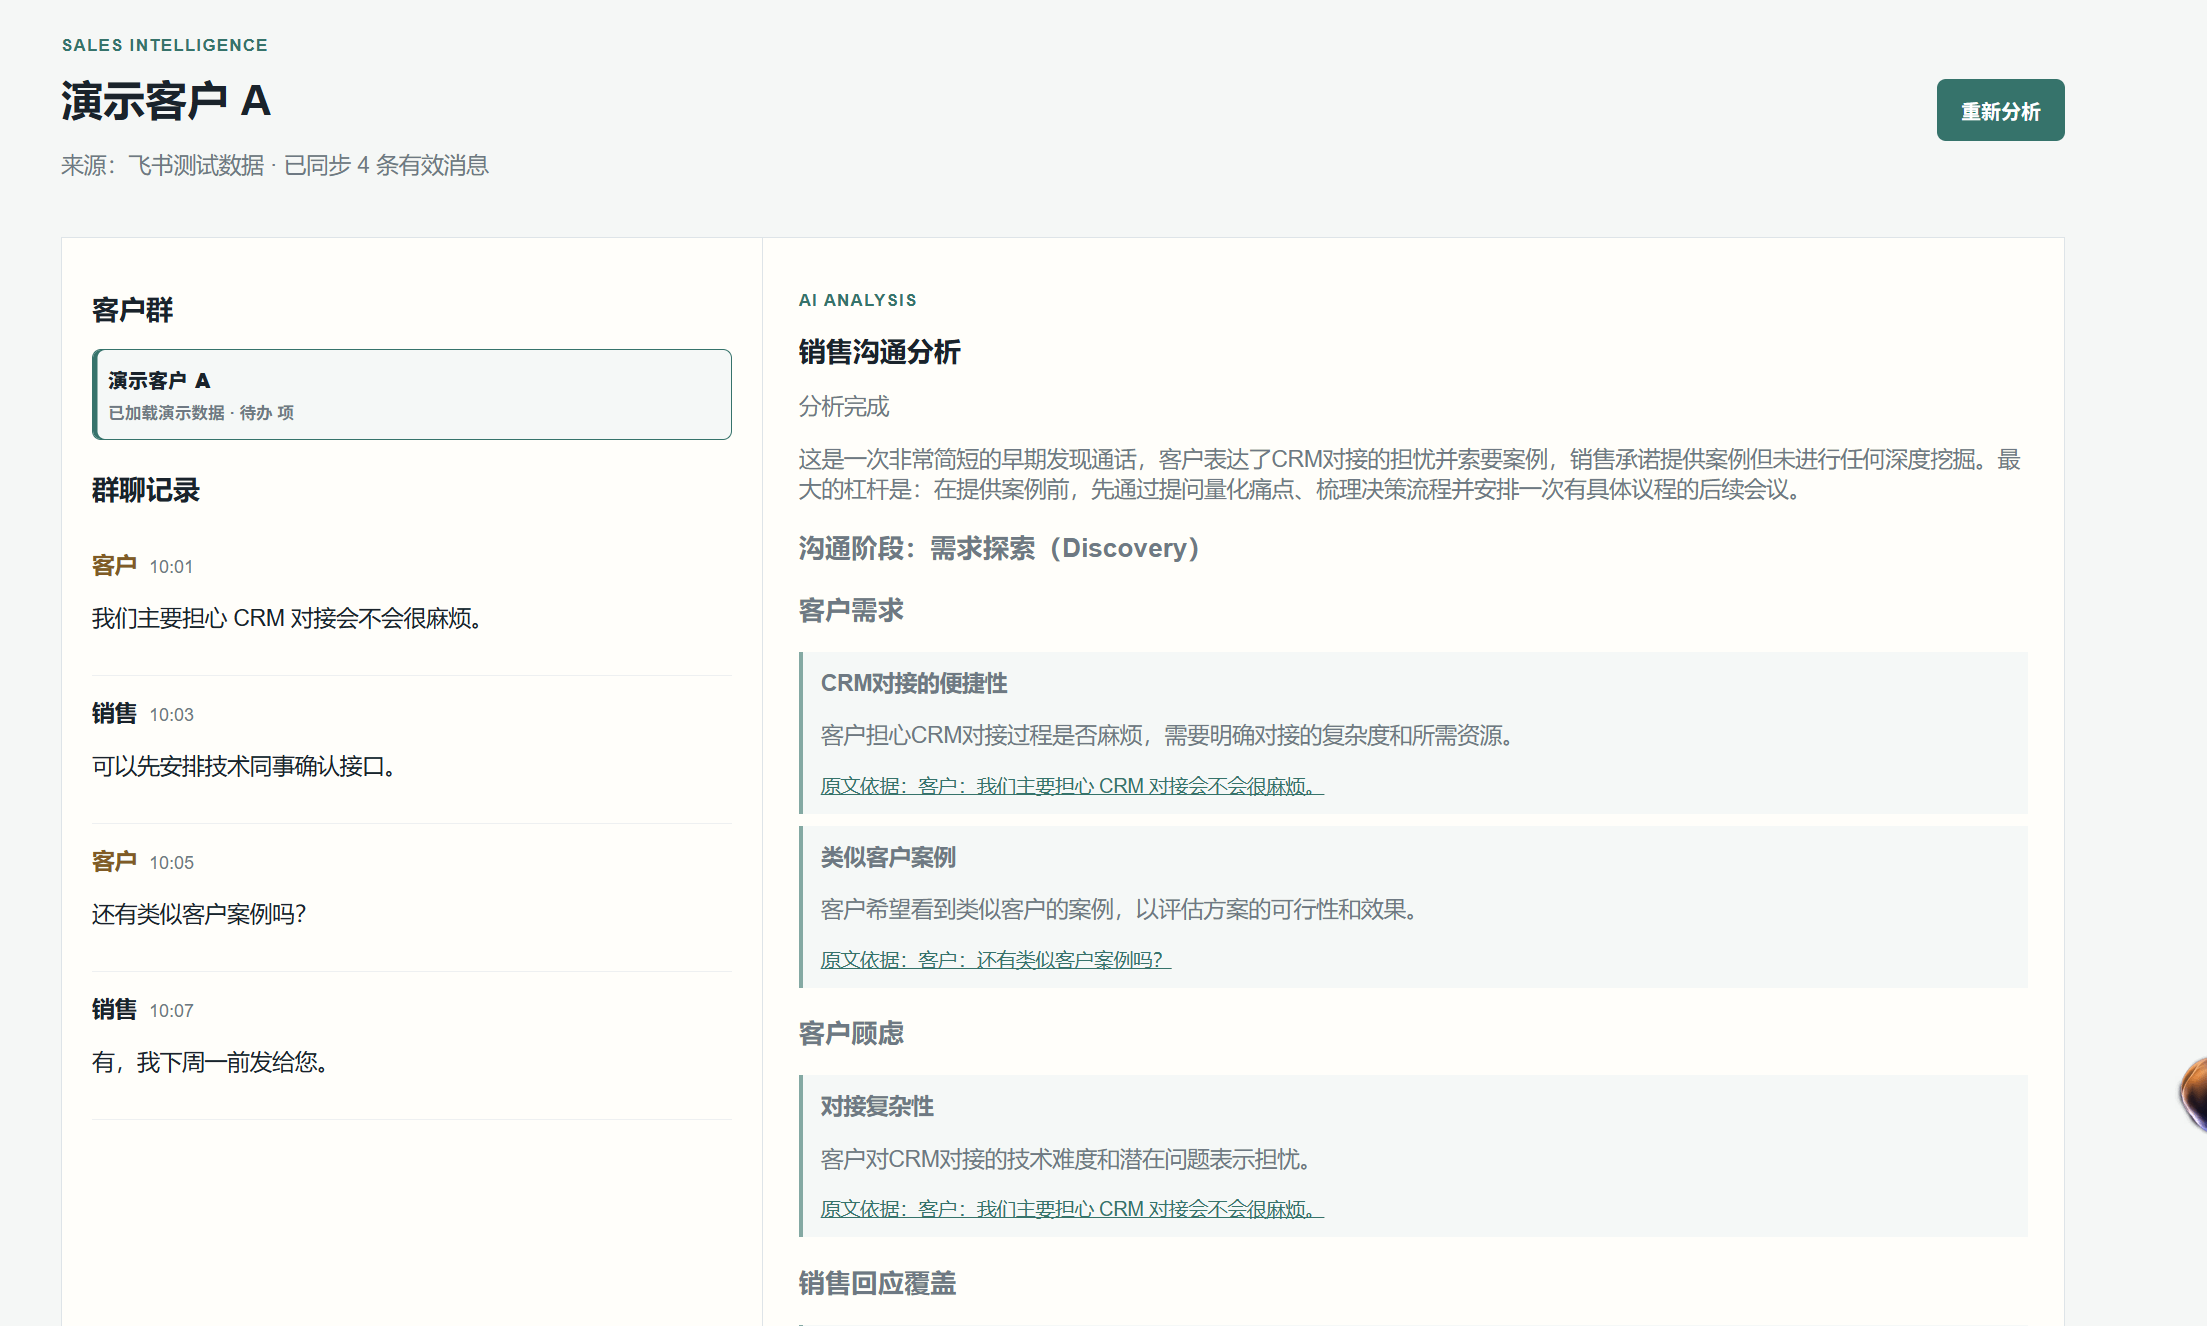
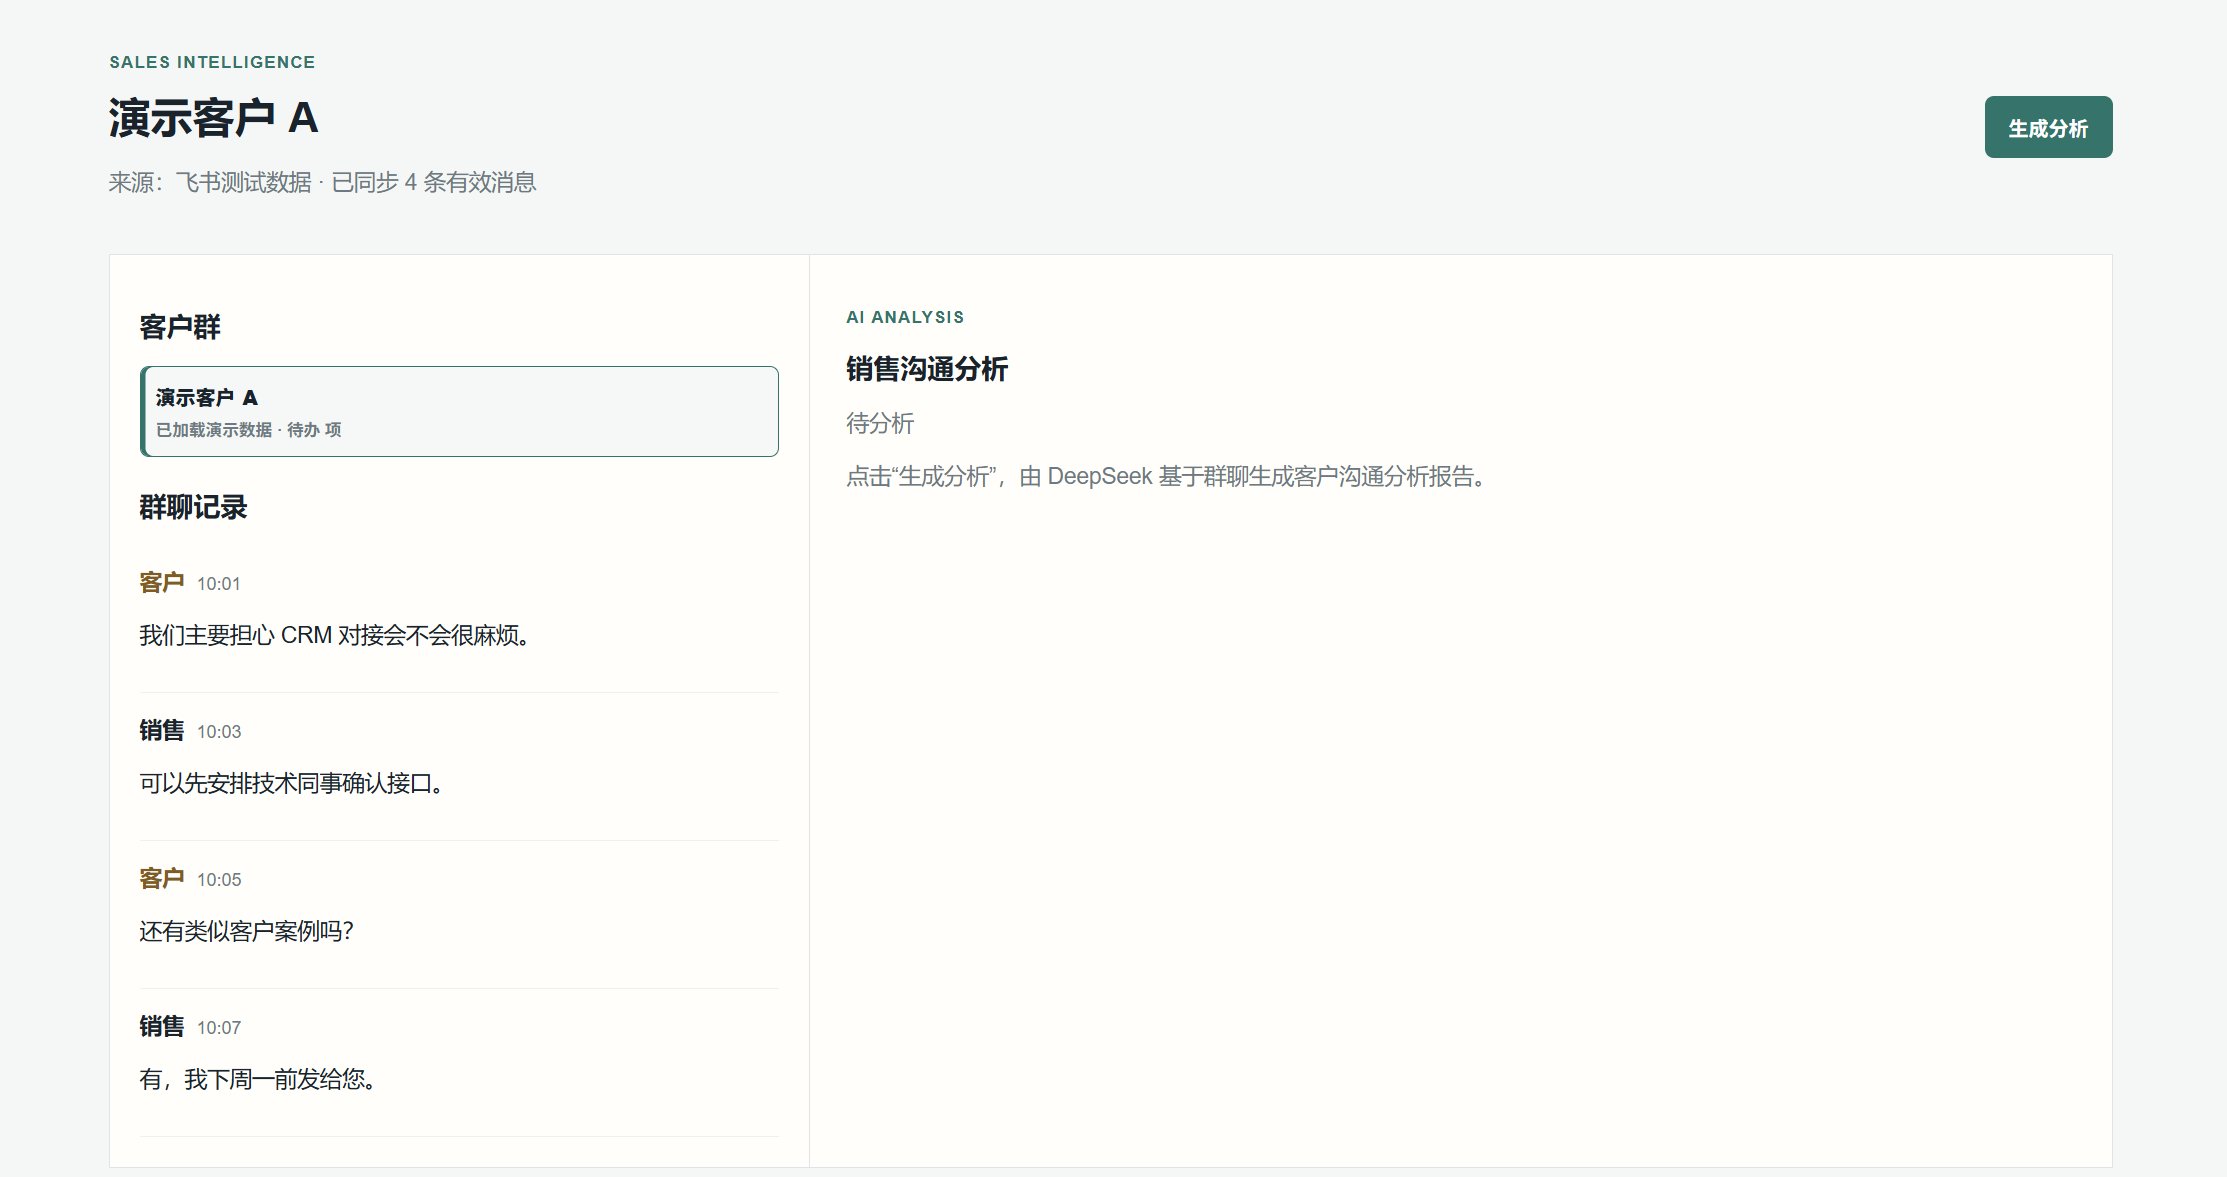
docs: standardize bilingual README names and screenshots

diff --git a/README.md b/README.md
@@ -1,87 +1,89 @@
-# DealTrace｜飞书销售对话事项追踪 Agent
+# DealTrace | Feishu Sales Conversation Issue Tracker
 
-DealTrace 面向企业销售团队，从飞书群聊中提取客户需求、顾虑、待办和风险，并跨轮保存事项状态与原文证据，帮助销售确认“客户想要什么、担心什么、下一步做什么”。
+[中文说明](README.zh-CN.md)
+
+DealTrace extracts customer needs, concerns, risks, follow-ups, and commitments from Feishu group chats, then preserves each issue’s status and source evidence across conversations.
 
 ## Demo
 
-![DealTrace 工作台](docs/assets/demo-workbench.png)
+![DealTrace workbench](docs/assets/demo-workbench.png)
 
-```powershell
+![DealTrace workbench overview](docs/assets/demo-workbench-overview.png)
+
+```bash
 python -m venv .venv
-.venv\Scripts\activate
+source .venv/bin/activate
 pip install -e ".[llm]"
 python -m dealtrace workbench --port 8765
 ```
 
-打开 <http://127.0.0.1:8765/>。演示模式使用内置脱敏消息；点击“生成分析”需要可用的 DeepSeek API Key。
+Open <http://127.0.0.1:8765/>. The demo uses bundled anonymized messages; live analysis requires a working DeepSeek API key.
 
-## 核心流程
+## Workflow
 
 ```text
-飞书群聊 → 消息过滤与角色识别 → 客户事项提取 → 历史事项关联
-        → 状态合并与证据校验 → 客户状态快照与原文回溯
+Feishu chat → message and role normalization → issue extraction
+            → historical linking → state merge and evidence checks
+            → customer snapshot with source-message links
 ```
 
-每个事项拥有独立身份、类别、状态、更新时间和证据历史。未解决事项不会因为本轮没有被提到就自动消失；状态变化必须引用真实聊天消息，证据不足的变化会被拒绝并保留旧状态。
+Unresolved issues are not removed merely because the next conversation changes topic. Unsupported state changes are rejected and the previous state is preserved.
 
-## 能做什么
+## Features
 
-- 规范化飞书群聊事件，区分客户、销售等角色；
-- 识别需求、顾虑、风险、相关角色、承诺、待办和下一步；
-- 跨天保留未解决事项，支持新增、更新、暂时接受替代方案和解决；
-- 将状态变化关联到具体消息，支持页面内证据定位；
-- 保存客户状态版本、分析结果和拒绝原因；
-- 通过命令行处理录音转写文本并输出结构化报告。
+- Normalize Feishu events and identify customer/sales roles;
+- Extract needs, concerns, risks, stakeholders, commitments, todos, and next steps;
+- Preserve unresolved issues across days;
+- Support create, update, accepted-workaround, and resolved states;
+- Link accepted changes to source messages;
+- Save state versions, analysis output, and rejection reasons.
 
-## 接入真实飞书群
+## Feishu integration
 
-复制 `.env.example` 为 `.env`，填写飞书应用凭证、群聊白名单和角色映射：
+Copy `.env.example` to `.env`, configure Feishu credentials, chat allowlist, and role mapping, then run:
 
-```powershell
+```bash
 pip install -e ".[llm,feishu]"
 python -m dealtrace workbench --feishu --port 8766
 ```
 
-真实模式将消息和状态保存到本地 `data/workbench.sqlite3`。当前版本是单机原型，不包含登录、多租户、完整 CRM 权限和自动任务派发，不应直接暴露到公网。
+Live mode stores messages and state in `data/workbench.sqlite3`. It is a single-machine prototype without authentication, multi-tenancy, full CRM permissions, or automatic task dispatch.
 
-## 评测结果
+## Evaluation
 
-评测集覆盖 6 类销售场景、6 个案例和 18 轮连续对话：需求探索、产品演示、技术接入、价格商谈、签约后实施和续约问题处理。
+The evaluation set contains six sales scenarios, six cases, and 18 sequential rounds covering discovery, product demo, technical integration, pricing, post-signing implementation, and renewal handling.
 
-当前正式评测（`deepseek-v4-flash`、seed=42、单次运行）：
+Current internal evaluation (`deepseek-v4-flash`, seed 42, single run):
 
-| 指标 | 结果 | 用户含义 |
+| Metric | Result | Meaning |
 |---|---:|---|
-| 事项变化判断精确率 | 84.6% | 写入的事项变化中，正确的比例 |
-| 事项变化召回率 | 61.1% | 应识别的事项变化中，实际识别的比例 |
-| 客户状态判断精确率 | 94.1% | 保存到客户状态中的内容，正确的比例 |
-| 客户状态召回率 | 66.7% | 应保存的状态中，实际保存的比例 |
-| 原文证据可追溯率 | 100% | 有效结果能定位到聊天原文的比例 |
+| Change precision | 84.6% | Correct accepted changes among predictions |
+| Change recall | 61.1% | Gold changes that were identified |
+| State precision | 94.1% | Correct entries among saved state items |
+| State recall | 66.7% | Gold state items that were saved |
+| Evidence traceability | 100% | Accepted results linked to source messages |
 
-这些数字来自小规模内部评测，用于验证短周期多轮追踪能力，不代表数月、数百条消息的生产效果。
+These figures come from a small internal set and validate short-horizon multi-turn tracking, not months-long production conversations.
 
-```powershell
+```bash
 python evals/run_eval.py
 ```
 
-## 目录
+## Layout
 
 ```text
-src/dealtrace/     核心应用、飞书接入、模型调用和状态管理
-fixtures/          脱敏本地演示事件
-prompts/           分析提示词
-schemas/           输出结构定义
-evals/             Golden 数据和评测脚本
-tests/             自动化测试
+src/dealtrace/     Core application, Feishu integration, LLM, and state logic
+fixtures/          Anonymized local demo events
+prompts/           Analysis prompts
+schemas/           Output schemas
+evals/             Golden cases and evaluators
+tests/             Automated tests
 ```
 
-## 隐私与安全
+## Privacy and security
 
-- 不要提交 `.env`、API Key 或真实客户聊天记录；
-- 公开示例仅用于演示和测试；
-- 生产接入前应补充登录、权限、数据保留和脱敏策略；
-- 模型 API 不可用时，可使用已保存的离线回放结果。
+Never commit `.env`, API keys, or real customer conversations. Add authentication, authorization, retention, and redaction controls before production use.
 
 ## License
 
-Apache-2.0，详见 [LICENSE](LICENSE)。
+Apache-2.0. See [LICENSE](LICENSE).

diff --git a/README.zh-CN.md b/README.zh-CN.md
@@ -1,0 +1,91 @@
+# DealTrace｜飞书销售对话事项追踪 Agent
+
+[English README](README.md)
+
+DealTrace 面向企业销售团队，从飞书群聊中提取客户需求、顾虑、待办和风险，并跨轮保存事项状态与原文证据，帮助销售确认“客户想要什么、担心什么、下一步做什么”。
+
+## Demo
+
+![DealTrace 工作台](docs/assets/demo-workbench.png)
+
+![工作台总览](docs/assets/demo-workbench-overview.png)
+
+```powershell
+python -m venv .venv
+.venv\Scripts\activate
+pip install -e ".[llm]"
+python -m dealtrace workbench --port 8765
+```
+
+打开 <http://127.0.0.1:8765/>。演示模式使用内置脱敏消息；点击“生成分析”需要可用的 DeepSeek API Key。
+
+## 核心流程
+
+```text
+飞书群聊 → 消息过滤与角色识别 → 客户事项提取 → 历史事项关联
+        → 状态合并与证据校验 → 客户状态快照与原文回溯
+```
+
+每个事项拥有独立身份、类别、状态、更新时间和证据历史。未解决事项不会因为本轮没有被提到就自动消失；状态变化必须引用真实聊天消息，证据不足的变化会被拒绝并保留旧状态。
+
+## 能做什么
+
+- 规范化飞书群聊事件，区分客户、销售等角色；
+- 识别需求、顾虑、风险、相关角色、承诺、待办和下一步；
+- 跨天保留未解决事项，支持新增、更新、暂时接受替代方案和解决；
+- 将状态变化关联到具体消息，支持页面内证据定位；
+- 保存客户状态版本、分析结果和拒绝原因；
+- 通过命令行处理录音转写文本并输出结构化报告。
+
+## 接入真实飞书群
+
+复制 `.env.example` 为 `.env`，填写飞书应用凭证、群聊白名单和角色映射：
+
+```powershell
+pip install -e ".[llm,feishu]"
+python -m dealtrace workbench --feishu --port 8766
+```
+
+真实模式将消息和状态保存到本地 `data/workbench.sqlite3`。当前版本是单机原型，不包含登录、多租户、完整 CRM 权限和自动任务派发，不应直接暴露到公网。
+
+## 评测结果
+
+评测集覆盖 6 类销售场景、6 个案例和 18 轮连续对话：需求探索、产品演示、技术接入、价格商谈、签约后实施和续约问题处理。
+
+当前正式评测（`deepseek-v4-flash`、seed=42、单次运行）：
+
+| 指标 | 结果 | 用户含义 |
+|---|---:|---|
+| 事项变化判断精确率 | 84.6% | 写入的事项变化中，正确的比例 |
+| 事项变化召回率 | 61.1% | 应识别的事项变化中，实际识别的比例 |
+| 客户状态判断精确率 | 94.1% | 保存到客户状态中的内容，正确的比例 |
+| 客户状态召回率 | 66.7% | 应保存的状态中，实际保存的比例 |
+| 原文证据可追溯率 | 100% | 有效结果能定位到聊天原文的比例 |
+
+这些数字来自小规模内部评测，用于验证短周期多轮追踪能力，不代表数月、数百条消息的生产效果。
+
+```powershell
+python evals/run_eval.py
+```
+
+## 目录
+
+```text
+src/dealtrace/     核心应用、飞书接入、模型调用和状态管理
+fixtures/          脱敏本地演示事件
+prompts/           分析提示词
+schemas/           输出结构定义
+evals/             Golden 数据和评测脚本
+tests/             自动化测试
+```
+
+## 隐私与安全
+
+- 不要提交 `.env`、API Key 或真实客户聊天记录；
+- 公开示例仅用于演示和测试；
+- 生产接入前应补充登录、权限、数据保留和脱敏策略；
+- 模型 API 不可用时，可使用已保存的离线回放结果。
+
+## License
+
+Apache-2.0，详见 [LICENSE](LICENSE)。
